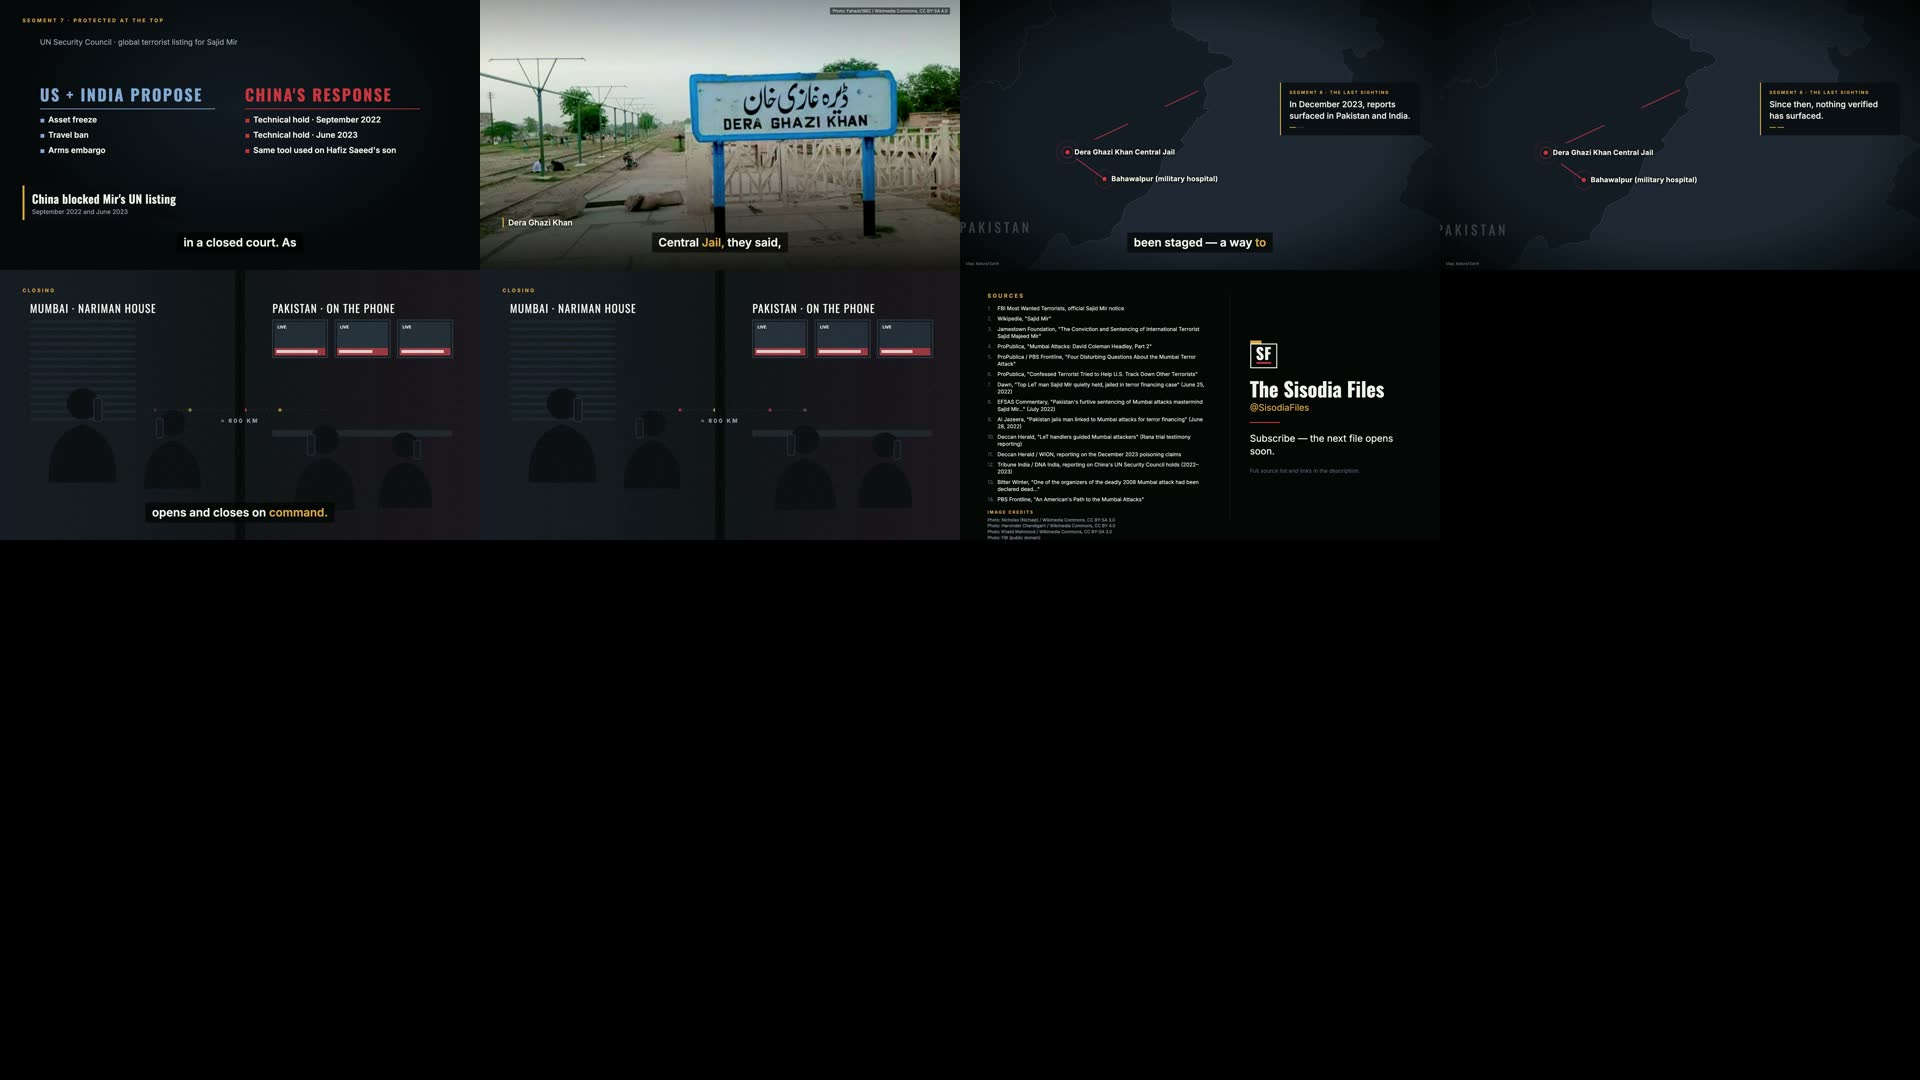
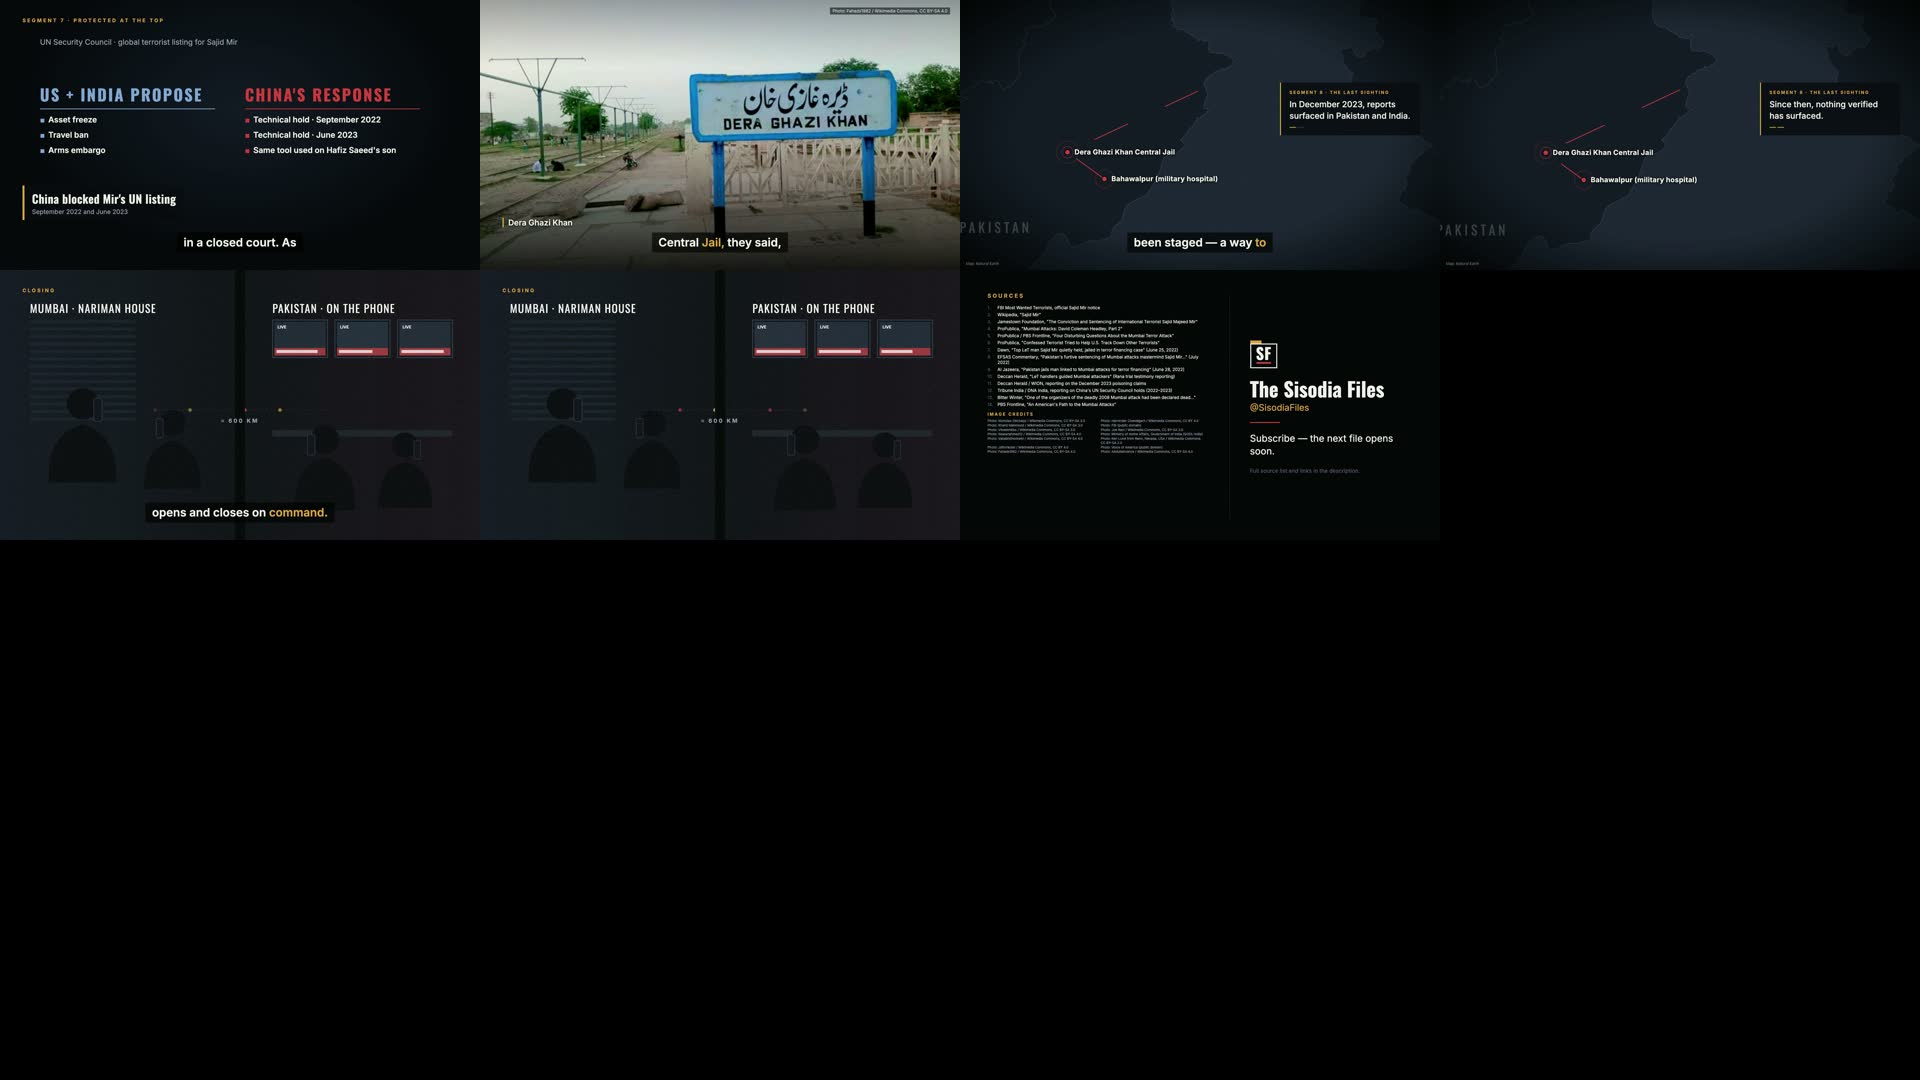
File 05 v1.1, File 04 v1.2: fit every image credit on the end card

Changed region(s): [[0.5, 0.275, 0.625, 0.5194]]

diff --git a/mercenary/src/components/Cards.tsx b/mercenary/src/components/Cards.tsx
@@ -128,6 +128,9 @@ export const EndCard: React.FC<{ durationInFrames: number }> = ({
     end_card_cta: cta,
   } = config;
   const hasChannel = Boolean(name || handle || cta);
+  // long source lists + many photo credits: tighten the list and split credits into two columns
+  const dense = sources.length > 10 || photoCredits.length > 6;
+  const twoCol = photoCredits.length > 6;
   return (
     <AbsoluteFill
       style={{
@@ -156,10 +159,10 @@ export const EndCard: React.FC<{ durationInFrames: number }> = ({
             style={{
               display: "flex",
               gap: 14,
-              fontSize: 21,
-              lineHeight: 1.35,
+              fontSize: dense ? 17 : 21,
+              lineHeight: 1.3,
               color: C.ink,
-              marginBottom: 13,
+              marginBottom: dense ? 6 : 13,
               opacity: interpolate(
                 frame,
                 [8 + i * 4, 20 + i * 4],
@@ -181,17 +184,19 @@ export const EndCard: React.FC<{ durationInFrames: number }> = ({
               letterSpacing: 4,
               color: C.accent,
               fontWeight: 700,
-              margin: "26px 0 10px",
+              margin: dense ? "18px 0 8px" : "26px 0 10px",
             }}
           >
             IMAGE CREDITS
           </div>
         )}
-        {photoCredits.map((c) => (
-          <div key={c} style={{ fontSize: 17, lineHeight: 1.4, color: C.dim }}>
-            {c}
-          </div>
-        ))}
+        <div style={{ display: "grid", gridTemplateColumns: twoCol ? "1fr 1fr" : "1fr", columnGap: 28 }}>
+          {photoCredits.map((c) => (
+            <div key={c} style={{ fontSize: twoCol ? 13 : 17, lineHeight: 1.35, color: C.dim }}>
+              {c}
+            </div>
+          ))}
+        </div>
       </div>
       {hasChannel && (
         <div

diff --git a/voice-in-the-room/src/components/Cards.tsx b/voice-in-the-room/src/components/Cards.tsx
@@ -128,6 +128,9 @@ export const EndCard: React.FC<{ durationInFrames: number }> = ({
     end_card_cta: cta,
   } = config;
   const hasChannel = Boolean(name || handle || cta);
+  // long source lists + many photo credits: tighten the list and split credits into two columns
+  const dense = sources.length > 10 || photoCredits.length > 6;
+  const twoCol = photoCredits.length > 6;
   return (
     <AbsoluteFill
       style={{
@@ -156,10 +159,10 @@ export const EndCard: React.FC<{ durationInFrames: number }> = ({
             style={{
               display: "flex",
               gap: 14,
-              fontSize: 21,
-              lineHeight: 1.35,
+              fontSize: dense ? 17 : 21,
+              lineHeight: 1.3,
               color: C.ink,
-              marginBottom: 13,
+              marginBottom: dense ? 6 : 13,
               opacity: interpolate(
                 frame,
                 [8 + i * 4, 20 + i * 4],
@@ -181,17 +184,19 @@ export const EndCard: React.FC<{ durationInFrames: number }> = ({
               letterSpacing: 4,
               color: C.accent,
               fontWeight: 700,
-              margin: "26px 0 10px",
+              margin: dense ? "18px 0 8px" : "26px 0 10px",
             }}
           >
             IMAGE CREDITS
           </div>
         )}
-        {photoCredits.map((c) => (
-          <div key={c} style={{ fontSize: 17, lineHeight: 1.4, color: C.dim }}>
-            {c}
-          </div>
-        ))}
+        <div style={{ display: "grid", gridTemplateColumns: twoCol ? "1fr 1fr" : "1fr", columnGap: 28 }}>
+          {photoCredits.map((c) => (
+            <div key={c} style={{ fontSize: twoCol ? 13 : 17, lineHeight: 1.35, color: C.dim }}>
+              {c}
+            </div>
+          ))}
+        </div>
       </div>
       {hasChannel && (
         <div

diff --git a/README.md b/README.md
@@ -4,8 +4,8 @@ Code-driven investigative documentaries (Remotion + edge-tts) for [@SisodiaFiles
 
 | Video | Folder | Status |
 |---|---|---|
-| File 05 — The Voice in the Room (Sajid Mir) | [`voice-in-the-room/`](voice-in-the-room/) | v1.0 |
-| File 04 — The Mercenary (David Headley) | [`mercenary/`](mercenary/) | v1.1 |
+| File 05 — The Voice in the Room (Sajid Mir) | [`voice-in-the-room/`](voice-in-the-room/) | v1.1 |
+| File 04 — The Mercenary (David Headley) | [`mercenary/`](mercenary/) | v1.2 |
 | File 03 — The Front Man (Tahawwur Rana) | [`front-man/`](front-man/) | v1.2 |
 | File 02 — 60 Hours (26/11 hour by hour) | [`60-hours/`](60-hours/) | v1.4 |
 | Inside the Terror Factory | [`terror-factory/`](terror-factory/) | File 01 — v1.3 + Instagram teaser v1.2 (renders kept locally, not in git) |

diff --git a/mercenary/CHANGELOG.md b/mercenary/CHANGELOG.md
@@ -16,3 +16,6 @@
 - Cold open: the 6–24 s stretch between the O'Hare photo and the first circle was an empty dark frame.
   Now carried by photos on the spoken words (O'Hare held through "sent him", FBI badge at "never boards",
   Mumbai at "Eleven months earlier", Jyllands-Posten at "Denmark", DEA flag at "paid informant").
+
+## v1.2 — end-card credits
+- The end card cut off most image credits (long source list + many photos ran past the frame). Sources now tighten and credits split into two columns when there are many, so every licence credit is on screen.

diff --git a/voice-in-the-room/CHANGELOG.md b/voice-in-the-room/CHANGELOG.md
@@ -9,3 +9,6 @@
   Nashik is north-east of Mumbai; the closing drops Kasab (not established in this script) and "seventeen years".
 - Control-room scene made config-driven; checklist title configurable.
 - 15 photo moments (FBI and Government of India public domain, CC BY / BY-SA). No map images with non-India-POV borders.
+
+## v1.1 — end-card credits
+- The end card cut off most image credits (long source list + many photos ran past the frame). Sources now tighten and credits split into two columns when there are many, so every licence credit is on screen.

diff --git a/voice-in-the-room/output/youtube_upload.md b/voice-in-the-room/output/youtube_upload.md
@@ -1,4 +1,4 @@
-# YouTube upload kit — The Voice in the Room (v1.0)
+# YouTube upload kit — The Voice in the Room (v1.1)
 
 ## Title (65/100)
 The Voice in the Room: The Sajid Mir Story | The Sisodia Files 05

diff --git a/mercenary/output/youtube_upload.md b/mercenary/output/youtube_upload.md
@@ -1,4 +1,4 @@
-# YouTube upload kit — The Mercenary (v1.1)
+# YouTube upload kit — The Mercenary (v1.2)
 
 ## Title (61/100)
 The Mercenary: The David Headley Story | The Sisodia Files 04
